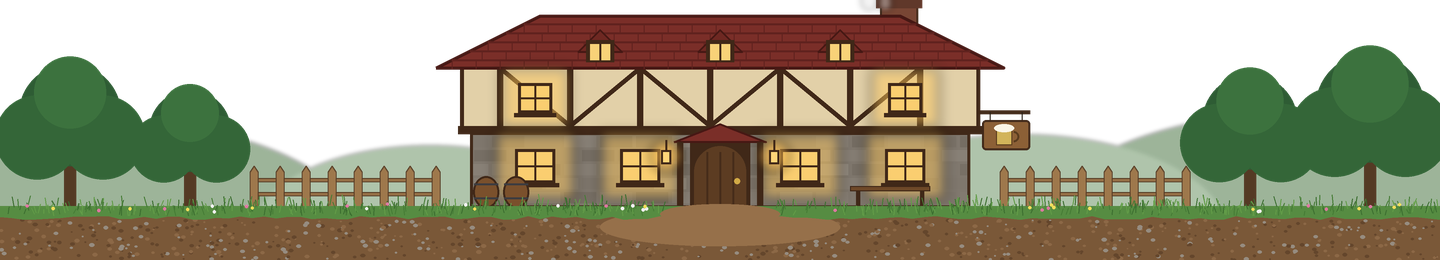
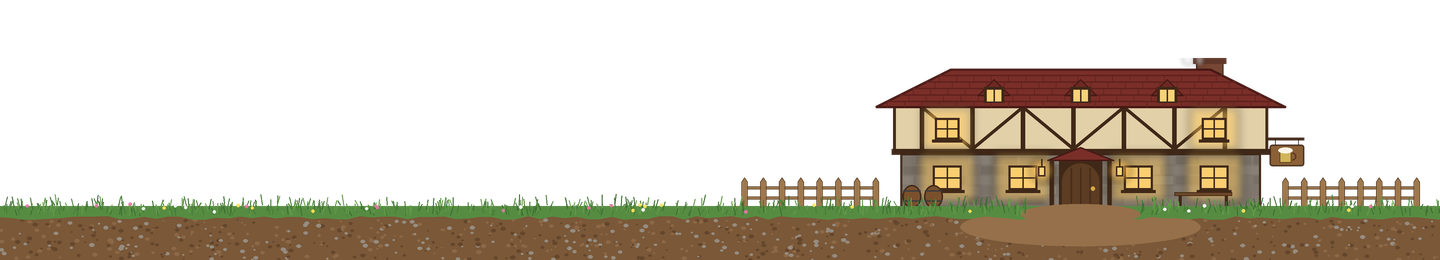
Tavern backdrop: drop trees and hills, shrink tavern and move it right
The tavern is now just background fluff: about 150px tall, with its top level
with the top of the bottom band of the screen, sitting at the right end of the
strip. Only the tavern, its fences and the grass/dirt floor remain; everything
above the ground is transparent.

Claude-Session: https://claude.ai/code/session_01FYWvxyMymEdFV53qa5xmXS

diff --git a/tools/gen_tavern_bg.py b/tools/gen_tavern_bg.py
@@ -1,8 +1,10 @@
 """Generate overlay/assets/tavern_bg.png, the backdrop for #tavern-area.
 
 The strip is 1440x260 on the 1920x1080 canvas (left 25% -> right edge,
-bottom 260px). The sky is left transparent so the stream shows through;
-the tavern sits behind a grass/dirt ground the Dablings walk on (they stand
+bottom 260px). Everything above the ground is transparent so the stream
+shows through; the tavern is background fluff, drawn at a fixed size, then
+shrunk so its top sits at TAVERN_TOP and its right edge at TAVERN_RIGHT.
+It stands behind a grass/dirt ground the Dablings walk on (they stand
 0-14px above the bottom edge).
 
 Run from the repo root: python3 tools/gen_tavern_bg.py  (needs Pillow)
@@ -44,29 +46,8 @@ def ellipse(x0, y0, x1, y1, fill, outline=None, width=0):
 
 
 GROUND_Y = 206  # top of the grass line
-
-# --- distant hills, faded so they read as far away -------------------------
-hills = Image.new("RGBA", img.size, (0, 0, 0, 0))
-hd = ImageDraw.Draw(hills)
-for cx, r, col in [(120, 150, (88, 128, 82, 150)), (1300, 170, (88, 128, 82, 150)),
-                   (430, 110, (98, 140, 90, 130)), (1020, 130, (98, 140, 90, 130))]:
-    hd.ellipse([(cx - r * 1.6) * S, (GROUND_Y - r * 0.55) * S,
-                (cx + r * 1.6) * S, (GROUND_Y + r) * S], fill=col)
-img.alpha_composite(hills.filter(ImageFilter.GaussianBlur(2 * S)))
-d = ImageDraw.Draw(img)
-
-
-# --- trees either side -----------------------------------------------------
-def tree(x, top, h):
-    rect(x - 6, top + h * 0.55, x + 6, GROUND_Y + 4, (84, 58, 36, 255))
-    for dx, dy, r, c in [(0, 0.30, 0.34, (46, 92, 52, 255)), (-0.22, 0.45, 0.28, (52, 102, 56, 255)),
-                         (0.22, 0.45, 0.28, (52, 102, 56, 255)), (0, 0.15, 0.24, (60, 114, 62, 255))]:
-        cx, cy, rr = x + dx * h, top + dy * h, r * h
-        ellipse(cx - rr, cy - rr, cx + rr, cy + rr, c)
-
-
-for x, top, h in [(70, 70, 150), (190, 95, 120), (1250, 80, 140), (1370, 60, 160)]:
-    tree(x, top, h)
+TAVERN_TOP = 58  # chimney top; level with the top of the taskbar-free band
+TAVERN_RIGHT = 1420  # right edge of the right-hand fence
 
 # --- the tavern ------------------------------------------------------------
 BX0, BX1 = 470, 970          # main hall
@@ -188,6 +169,18 @@ for x0, x1 in [(250, 440), (1000, 1190)]:
     for x in range(x0 + 4, x1, 26):
         poly([(x - 4, 172), (x, 166), (x + 4, 172), (x + 4, GROUND_Y + 2), (x - 4, GROUND_Y + 2)],
              (158, 120, 76, 255), (90, 64, 40, 255), 1)
+
+# --- shrink the tavern and fences into place --------------------------------
+tavern = img.crop((0, 0, W * S, (GROUND_Y + 2) * S))
+bx0, by0, bx1, by1 = tavern.getbbox()
+k = (GROUND_Y + 2 - TAVERN_TOP) / ((by1 - by0) / S)
+tavern = tavern.crop((bx0, by0, bx1, by1))
+tavern = tavern.resize((round(tavern.width * k), round(tavern.height * k)), Image.LANCZOS)
+left = TAVERN_RIGHT * S - tavern.width
+img = Image.new("RGBA", (W * S, H * S), (0, 0, 0, 0))
+img.alpha_composite(tavern, (left, TAVERN_TOP * S))
+d = ImageDraw.Draw(img)
+DX = (left + (DX * S - bx0) * k) / S  # door position after the move
 
 # --- ground: grass edge over a dirt floor ----------------------------------
 DIRT = (122, 88, 56, 255)

diff --git a/README.md b/README.md
@@ -83,7 +83,7 @@ An overlay controller service streams `channel.chat.message` events to browser c
 
 - **Billboard (`.other-box`)**: 1160×148 px box at left 727, top 918. Padding (16px sides, 8px top/bottom) leaves a 1128×132 px content area; anything that doesn't fit is clipped (`overflow: hidden`), and text renders at 28px (`clamp(16px, 1.6vw, 28px)`) on a 1920-wide canvas.
 - **Chat box (`#chat-box`)**: 330 px wide at top 20, left 20, max-height 64vh (~691 px at 1080p). Monospace 16px ⇒ lines wrap at roughly 34 characters, including the `username:` prefix.
-- **Tavern walking strip (`#tavern-area`)**: bottom of screen, left 25% → right edge, 260 px tall. Backdrop is `overlay/assets/tavern_bg.png` (1440×260, transparent sky, tavern behind a grass/dirt floor), regenerated with `python3 tools/gen_tavern_bg.py` (needs Pillow). The billboard and party cards draw over it.
+- **Tavern walking strip (`#tavern-area`)**: bottom of screen, left 25% → right edge, 260 px tall. Backdrop is `overlay/assets/tavern_bg.png` (1440×260: a small tavern on the right behind a grass/dirt floor, transparent above), regenerated with `python3 tools/gen_tavern_bg.py` (needs Pillow). The billboard and party cards draw over it.
 - **Party cards (`.party-cards`)**: anchored bottom-right (right 20, bottom 172), 116 px per card, growing leftward.
 
 ### Chat commands
